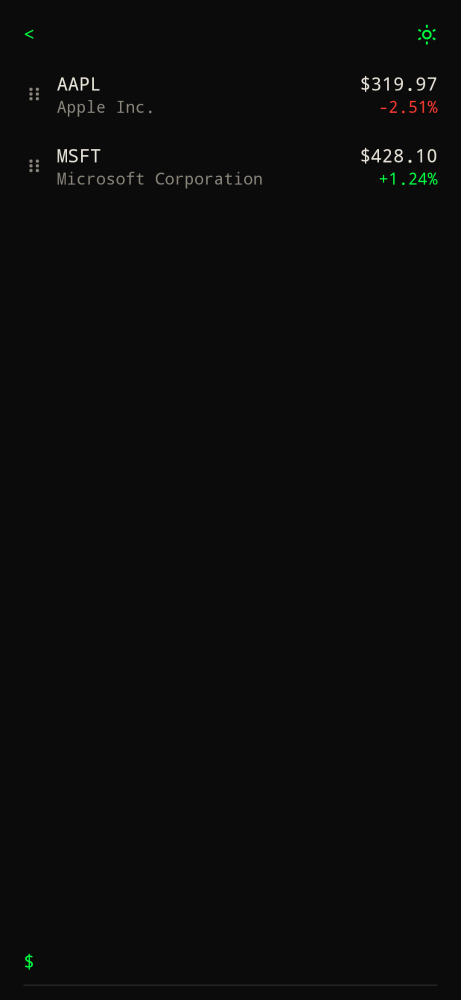
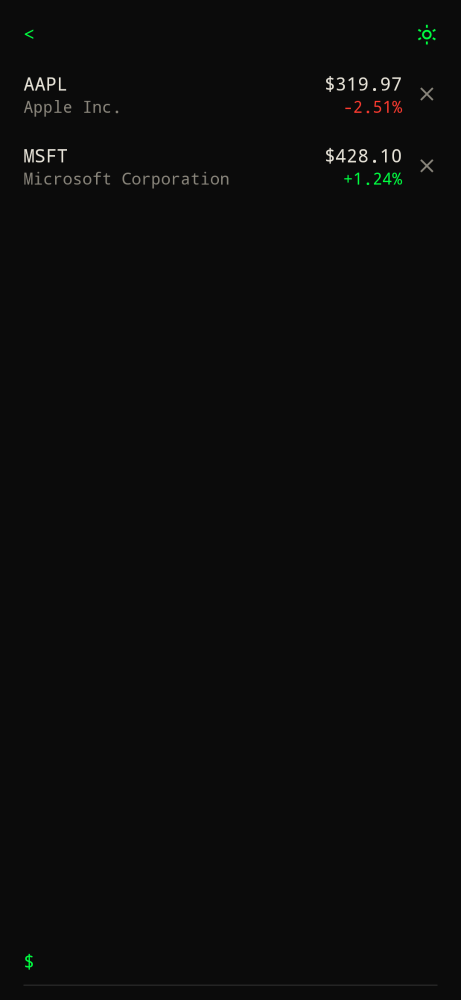
feat: delete stocks with the same x as tasks
Watchlist rows drop the reorder grip. Delete on the right
removes a ticker. Long-press and drag still reorders.

Changed region(s): [[0.0304, 0.062, 0.577, 0.186], [0.6985, 0.062, 0.9414, 0.186], [0.2733, 0.093, 0.3037, 0.124]]

diff --git a/app/src/main/java/xyz/cdr/builderlauncher/ui/BuilderRoot.kt b/app/src/main/java/xyz/cdr/builderlauncher/ui/BuilderRoot.kt
@@ -30,7 +30,7 @@ import androidx.compose.foundation.layout.offset
 import androidx.compose.foundation.layout.padding
 import androidx.compose.foundation.layout.size
 import androidx.compose.foundation.layout.statusBarsPadding
-import androidx.compose.foundation.gestures.detectDragGestures
+import androidx.compose.foundation.gestures.detectDragGesturesAfterLongPress
 import androidx.compose.foundation.lazy.LazyColumn
 import androidx.compose.foundation.lazy.items
 import androidx.compose.foundation.lazy.itemsIndexed
@@ -1318,11 +1318,11 @@ fun BuilderRoot(
                                     .animateItem(),
                                 verticalAlignment = Alignment.CenterVertically,
                             ) {
-                                GripIcon(
+                                Row(
                                     Modifier
-                                        .semantics { contentDescription = "reorder" }
+                                        .weight(1f)
                                         .pointerInput(index, watch.size) {
-                                            detectDragGestures(
+                                            detectDragGesturesAfterLongPress(
                                                 onDragStart = {
                                                     dragFrom = index
                                                     dragY = 0f
@@ -1338,8 +1338,8 @@ fun BuilderRoot(
                                                 onDrag = { change, amount ->
                                                     change.consume()
                                                     dragY += amount.y
-                                                    val from = dragFrom ?: return@detectDragGestures
-                                                    val step = (rowHeight + gap).takeIf { it > 1f } ?: return@detectDragGestures
+                                                    val from = dragFrom ?: return@detectDragGesturesAfterLongPress
+                                                    val step = (rowHeight + gap).takeIf { it > 1f } ?: return@detectDragGesturesAfterLongPress
                                                     val shift = kotlin.math.round(dragY / step).toInt()
                                                     val to = (from + shift).coerceIn(0, watch.lastIndex)
                                                     if (to != from) {
@@ -1350,39 +1350,33 @@ fun BuilderRoot(
                                                 },
                                             )
                                         }
-                                        .padding(end = 10.dp, top = 6.dp, bottom = 6.dp),
-                                )
-                                Column(
-                                    Modifier
-                                        .weight(1f)
                                         .clickable { openStockDetail(item.symbol) }
                                         .padding(vertical = 6.dp),
+                                    verticalAlignment = Alignment.CenterVertically,
                                 ) {
-                                    Text(item.symbol, color = Paper)
-                                    Text(
-                                        quote?.name ?: item.name,
-                                        color = Dim,
-                                        style = MaterialTheme.typography.bodyMedium,
-                                    )
-                                }
-                                Column(
-                                    horizontalAlignment = Alignment.End,
-                                    modifier = Modifier
-                                        .clickable { openStockDetail(item.symbol) }
-                                        .padding(vertical = 6.dp),
-                                ) {
-                                    Text(
-                                        if (price != null) Stocks.formatPrice(price, quote?.currency ?: item.currency) else "—",
-                                        color = Paper,
-                                    )
-                                    Text(
-                                        if (percent != null) Stocks.formatPercent(percent) else "—",
-                                        color = if (percent == null) Dim else tone,
-                                        style = MaterialTheme.typography.bodyMedium,
-                                    )
+                                    Column(Modifier.weight(1f)) {
+                                        Text(item.symbol, color = Paper)
+                                        Text(
+                                            quote?.name ?: item.name,
+                                            color = Dim,
+                                            style = MaterialTheme.typography.bodyMedium,
+                                        )
+                                    }
+                                    Column(horizontalAlignment = Alignment.End) {
+                                        Text(
+                                            if (price != null) Stocks.formatPrice(price, quote?.currency ?: item.currency) else "—",
+                                            color = Paper,
+                                        )
+                                        Text(
+                                            if (percent != null) Stocks.formatPercent(percent) else "—",
+                                            color = if (percent == null) Dim else tone,
+                                            style = MaterialTheme.typography.bodyMedium,
+                                        )
+                                    }
                                 }
                                 DeleteIcon(
                                     Modifier
+                                        .semantics { contentDescription = "delete stock" }
                                         .clickable { stocks.remove(item.symbol) }
                                         .padding(start = 12.dp, top = 6.dp, bottom = 6.dp),
                                 )

diff --git a/app/src/main/java/xyz/cdr/builderlauncher/ui/LauncherChrome.kt b/app/src/main/java/xyz/cdr/builderlauncher/ui/LauncherChrome.kt
@@ -565,7 +565,6 @@ private fun StockRowChrome(row: StockListRow) {
         Modifier.fillMaxWidth(),
         verticalAlignment = Alignment.CenterVertically,
     ) {
-        GripIcon(Modifier.padding(end = 10.dp, top = 6.dp, bottom = 6.dp))
         Column(Modifier.weight(1f).padding(vertical = 6.dp)) {
             Text(row.symbol, color = Paper)
             Text(row.name, color = Dim, style = MaterialTheme.typography.bodyMedium)
@@ -574,6 +573,7 @@ private fun StockRowChrome(row: StockListRow) {
             Text(row.price, color = Paper)
             Text(row.change, color = tone, style = MaterialTheme.typography.bodyMedium)
         }
+        DeleteIcon(Modifier.padding(start = 12.dp, top = 6.dp, bottom = 6.dp))
     }
 }
 
@@ -904,20 +904,6 @@ fun GearIcon(modifier: Modifier = Modifier) {
                 end = Offset(cx + kotlin.math.cos(a) * outer, cy + kotlin.math.sin(a) * outer),
                 strokeWidth = stroke.width,
             )
-        }
-    }
-}
-
-@Composable
-fun GripIcon(modifier: Modifier = Modifier) {
-    Canvas(modifier.size(18.dp)) {
-        val r = 1.4.dp.toPx()
-        val xs = listOf(size.width * 0.35f, size.width * 0.65f)
-        val ys = listOf(size.height * 0.28f, size.height * 0.50f, size.height * 0.72f)
-        xs.forEach { x ->
-            ys.forEach { y ->
-                drawCircle(color = Dim, radius = r, center = Offset(x, y))
-            }
         }
     }
 }

diff --git a/README.md b/README.md
@@ -77,7 +77,7 @@ Type on the home screen, then Enter.
 | | `pin Termux` / `unpin Termux` | Pin or unpin on the home list |
 | | `hub` / `notes` / `apps` / `stocks` / `settings` / `help` | Built-ins |
 
-Home always shows the clock, current weather, and up to 3 open todos. Set the weather city and metric or imperial units in settings (autocomplete, no GPS). Tap a todo to strike it through; tap again to reopen it. `… more tasks >` is always on home and opens the full todos list (no clock; `<` returns home). The command bar there starts in `-` task mode. The copy icon copies open todos to the clipboard as a markdown checklist dated `YYYY-MM-DD` (no share sheet). Delete on the right permanently removes a task. Finished items sit below open ones, newest completed first. Type `+` to expand a full-screen markdown note. The first line is seeded with `# ` (`<` home, copy icon top right). Type `notes` (or tap `… all notes >` in the filtered app list) for notes sorted by date edited; first line is the title, delete on the right. Type `$` (or `stocks`, or tap `… all stocks >`) for the watchlist: ticker, company, price, and today's % change. Type `$AAPL` or `$ apple` to search and add. Drag the grip on the left to reorder. The gear opens stocks settings: new tickers top or bottom, copy list, paste to add, or replace the list. Copy writes `Exchange,Ticker,Name`. Paste accepts that CSV, an Apple Stocks `Symbol,Name,…` export, or one ticker per line. Enter a CSV in the bar still imports. Tap a row for a chart with 1D / 1W / 1M / 3M / 1Y / 5Y and a stats box. Type an app name to filter a short, non-scrolling list that always ends with `… all apps >`. That opens every installed app (icons on the left; info for system app settings and delete to uninstall on the right). The command bar there filters the list as you type. The messages icon (top right), a swipe right, D-pad right, or `hub` opens the hub: SMS and chat threads you can answer. Reply (arrow on the right) sends through the notification when the app allows it; otherwise it opens the same screen as tapping the row (typical for Signal and Molly). Dismiss (x on the right) clears the notification. Todos stay on home and `… more tasks >`; notes stay on `notes`; stocks stay on `stocks`. Type `?` to open a full-screen AI chat (`<` home; history icon for past conversations with a date and delete). Hold an app on home to pin or unpin. `@` and `#` complete contacts as you type. Tap the clock for settings.
+Home always shows the clock, current weather, and up to 3 open todos. Set the weather city and metric or imperial units in settings (autocomplete, no GPS). Tap a todo to strike it through; tap again to reopen it. `… more tasks >` is always on home and opens the full todos list (no clock; `<` returns home). The command bar there starts in `-` task mode. The copy icon copies open todos to the clipboard as a markdown checklist dated `YYYY-MM-DD` (no share sheet). Delete on the right permanently removes a task. Finished items sit below open ones, newest completed first. Type `+` to expand a full-screen markdown note. The first line is seeded with `# ` (`<` home, copy icon top right). Type `notes` (or tap `… all notes >` in the filtered app list) for notes sorted by date edited; first line is the title, delete on the right. Type `$` (or `stocks`, or tap `… all stocks >`) for the watchlist: ticker, company, price, and today's % change. Type `$AAPL` or `$ apple` to search and add. Delete on the right removes a ticker. Long-press and drag a row to reorder. The gear opens stocks settings: new tickers top or bottom, copy list, paste to add, or replace the list. Copy writes `Exchange,Ticker,Name`. Paste accepts that CSV, an Apple Stocks `Symbol,Name,…` export, or one ticker per line. Enter a CSV in the bar still imports. Tap a row for a chart with 1D / 1W / 1M / 3M / 1Y / 5Y and a stats box. Type an app name to filter a short, non-scrolling list that always ends with `… all apps >`. That opens every installed app (icons on the left; info for system app settings and delete to uninstall on the right). The command bar there filters the list as you type. The messages icon (top right), a swipe right, D-pad right, or `hub` opens the hub: SMS and chat threads you can answer. Reply (arrow on the right) sends through the notification when the app allows it; otherwise it opens the same screen as tapping the row (typical for Signal and Molly). Dismiss (x on the right) clears the notification. Todos stay on home and `… more tasks >`; notes stay on `notes`; stocks stay on `stocks`. Type `?` to open a full-screen AI chat (`<` home; history icon for past conversations with a date and delete). Hold an app on home to pin or unpin. `@` and `#` complete contacts as you type. Tap the clock for settings.
 
 ## AI settings
 

diff --git a/website/src/content/docs/use/stocks.md b/website/src/content/docs/use/stocks.md
@@ -14,8 +14,8 @@ Prefix `$`. Type `stocks`, or tap `… all stocks >`.
 Each row is ticker, company, last price, and today's percent (green up, red down). Cap is 20 names.
 
 - Tap a row for the chart.
-- Drag the grip on the left to reorder. Order is saved on the device.
-- Delete on the right removes it.
+- Delete on the right removes it from the watchlist.
+- Long-press and drag a row to reorder. Order is saved on the device.
 - Command bar stays in `$` mode. Type a symbol or company name to search.
 - Empty list: `Type $AAPL to add a ticker.`
 - Gear (top right) opens stocks settings.
